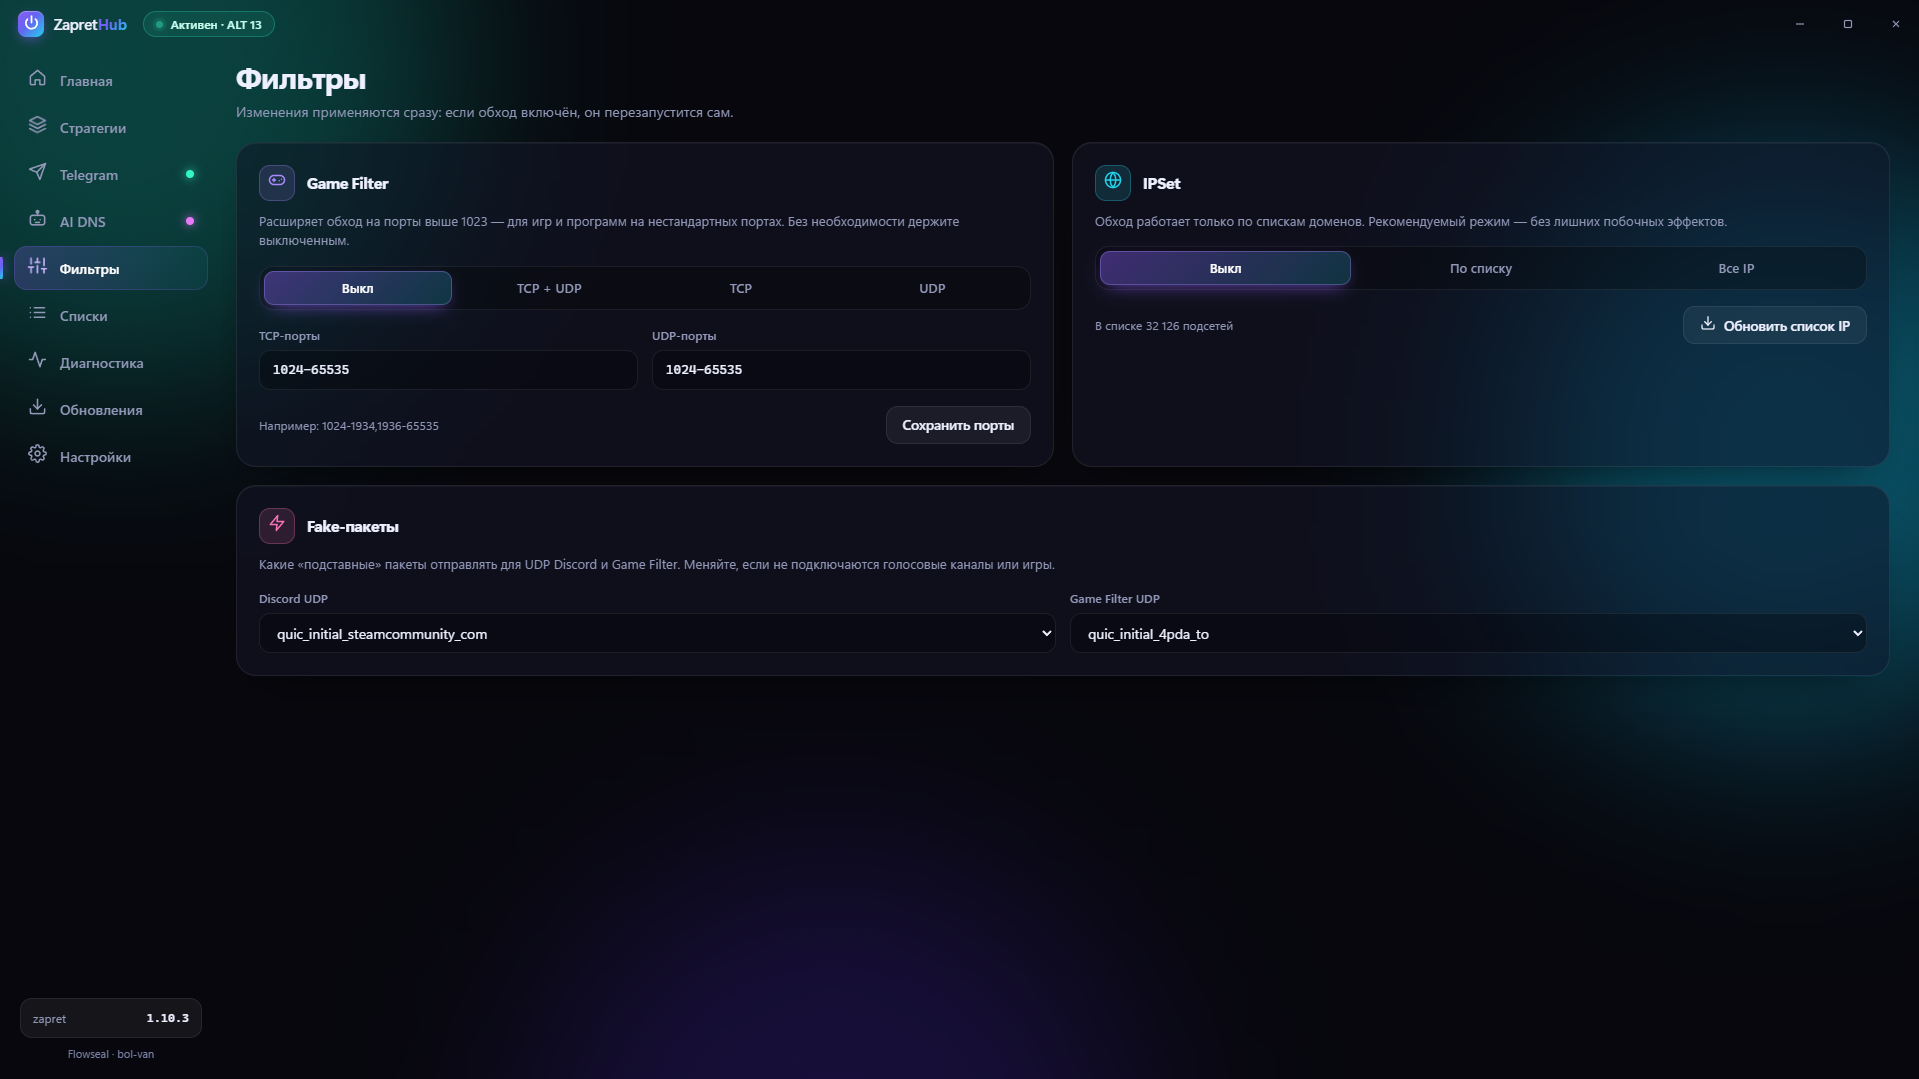
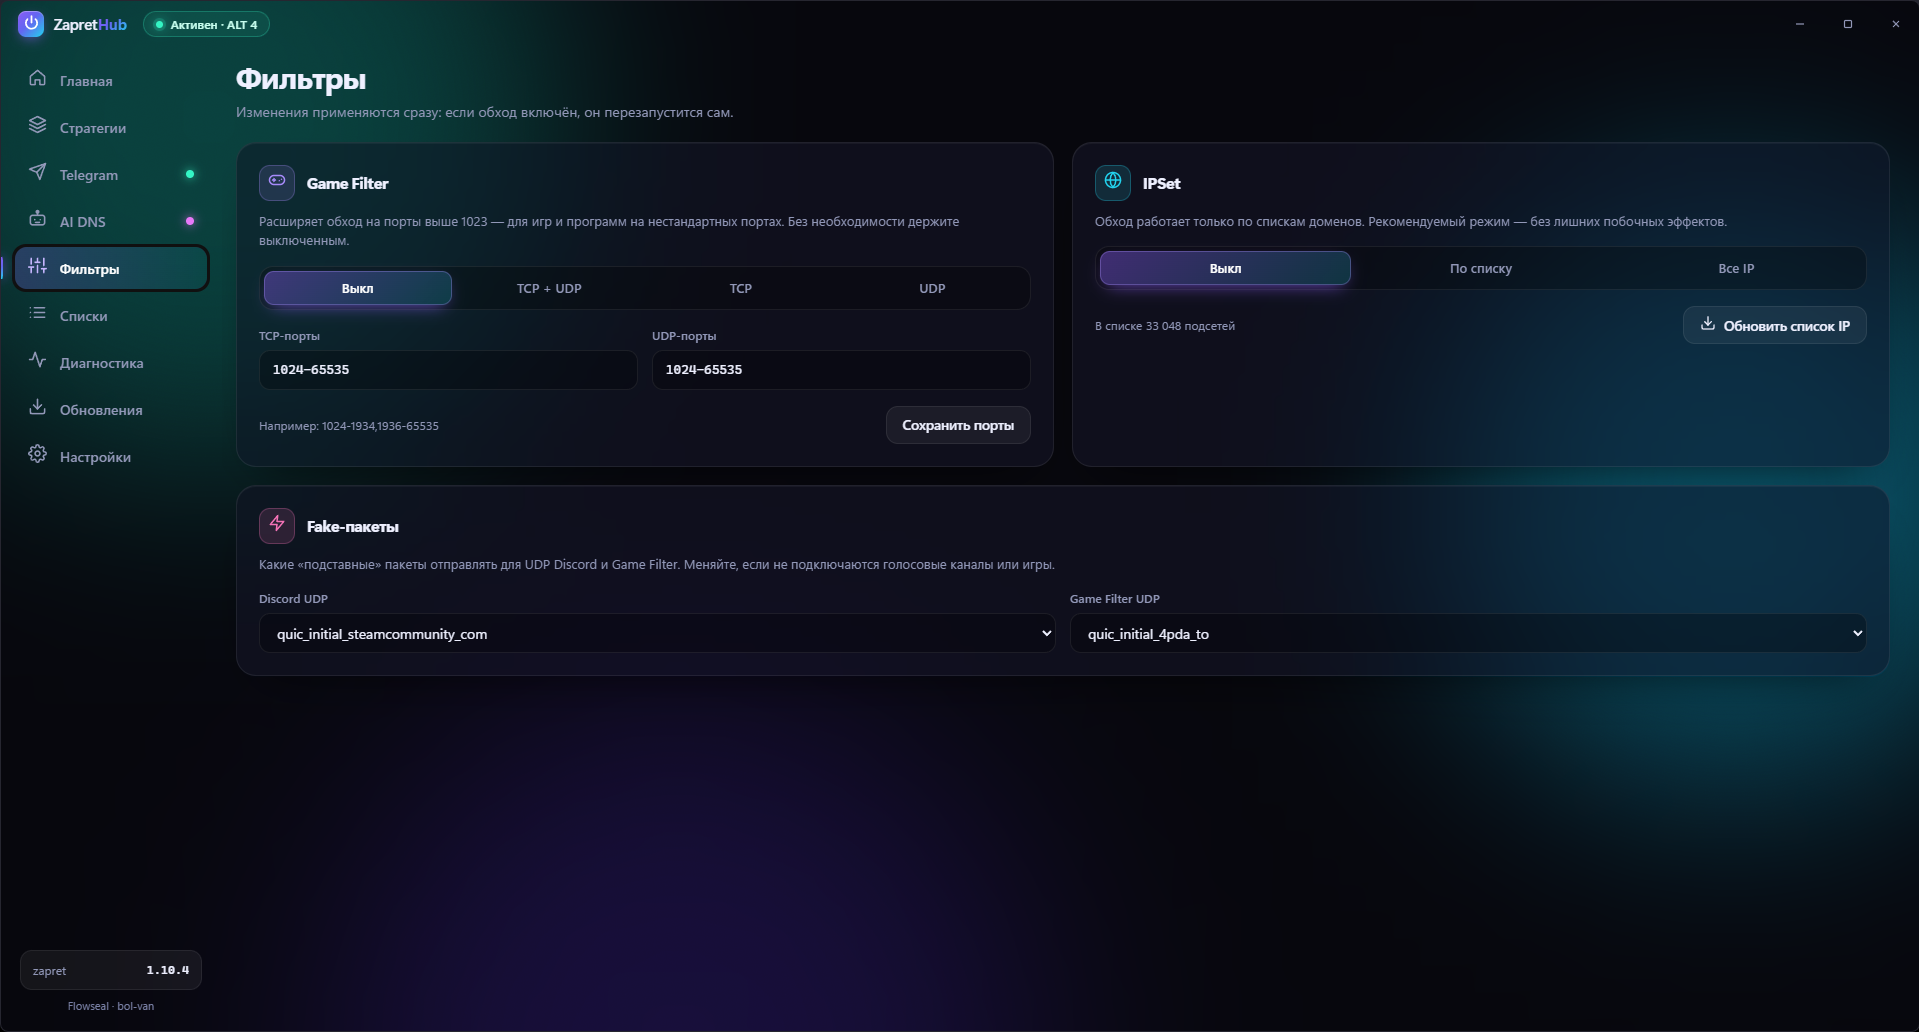
README: актуальные скриншоты 2.0.2 (секрет Telegram скрыт), убрано примечание о скриншотах 1.2.x

diff --git a/README.md b/README.md
@@ -19,10 +19,8 @@
 <br />
 
 <p align="center">
-  <img src="docs/images/main.png" alt="Главный экран Zapret Hub: кнопка обхода, проверка доступности Discord, YouTube, Google и Cloudflare, быстрые настройки" width="100%" />
+  <img src="docs/images/home.png" alt="Главная: кнопка обхода, доступность Discord, YouTube, Google и Cloudflare, быстрые настройки, версия zapret 1.10.4" width="100%" />
 </p>
-
-> Скриншоты в этом файле сделаны на версии 1.2.x. Интерфейс 2.0 сохранил это оформление, но отдельные экраны отличаются — например, «Обновления» и «Telegram» (в 2.0 Telegram-прокси встроен, обновления zapret идут напрямую с GitHub Flowseal). Новые скриншоты будут добавлены позже.
 
 ## Возможности
 
@@ -37,21 +35,23 @@
 
 ## Как это выглядит
 
-**Автоматический подбор стратегий**
+Скриншоты программы Zapret Hub 2.0.2 с zapret 1.10.4. Секрет и ссылка Telegram-прокси на скриншоте скрыты.
 
-<img src="docs/images/strategies.png" alt="Автоматический подбор стратегий: проверка Discord, YouTube, Google и Cloudflare, результаты по каждой стратегии" width="100%" />
+**Стратегии** — автоматический подбор и список всех стратегий с результатами проверок
+
+<img src="docs/images/strategies.png" alt="Стратегии: автоподбор Discord, YouTube, Google и Cloudflare, лучшая стратегия ALT 4, список из 22 стратегий с результатами" width="100%" />
 
 <table>
 <tr>
 <td width="50%" valign="top">
 <strong>Telegram</strong><br />
-Локальный прокси и настройки подключения. Секрет и ссылка на скриншоте скрыты.<br /><br />
-<img src="docs/images/telegram.png" alt="Раздел Telegram: состояние прокси, порт, DC → IP; секрет скрыт" width="100%" />
+Встроенный локальный прокси и настройки подключения.<br /><br />
+<img src="docs/images/telegram.png" alt="Telegram: прокси работает на 127.0.0.1:1443, встроенное ядро, порт, DC → IP; секрет и ссылка скрыты" width="100%" />
 </td>
 <td width="50%" valign="top">
 <strong>AI DNS</strong><br />
-Выбор DNS-серверов и возврат прежних настроек.<br /><br />
-<img src="docs/images/ai-dns.png" alt="Раздел AI DNS: предпочтительный и дополнительный DNS, DNS по протоколу HTTPS" width="100%" />
+Выбор DNS-серверов, DNS по HTTPS и сетевые адаптеры.<br /><br />
+<img src="docs/images/ai-dns.png" alt="AI DNS: предпочтительный и дополнительный DNS, DNS по протоколу HTTPS, выбор сетевых адаптеров" width="100%" />
 </td>
 </tr>
 </table>
@@ -63,26 +63,25 @@
 
 **Фильтры**
 
-<img src="docs/images/filters.png" alt="Фильтры: Game Filter, IPSet, fake-пакеты" width="100%" />
+<img src="docs/images/filters.png" alt="Фильтры: Game Filter, режимы IPSet, fake-пакеты для Discord UDP и Game Filter" width="100%" />
 
 **Свои списки и исключения**
 
-<img src="docs/images/lists.png" alt="Свои домены, исключения и исключённые IP" width="100%" />
+<img src="docs/images/lists.png" alt="Списки: свои домены, исключения и исключённые IP" width="100%" />
 
 **Диагностика**
 
-<img src="docs/images/diagnostics.png" alt="Диагностика: инструменты и журнал" width="100%" />
+<img src="docs/images/diagnostics.png" alt="Диагностика: проверка системы, инструменты и журнал" width="100%" />
 
-**Обновления** (версия 1.2.x; в 2.0 здесь только zapret, Telegram-прокси встроен)
+**Обновления**
 
-<img src="docs/images/updates.png" alt="Раздел обновлений версии 1.2.x" width="100%" />
+<img src="docs/images/updates.png" alt="Обновления: zapret 1.10.4 напрямую с GitHub Flowseal, встроенное ядро Telegram-прокси, автообновление и описание релиза" width="100%" />
 
 **Настройки**
 
-<img src="docs/images/settings.png" alt="Настройки: режим работы, поведение, сведения о программе" width="100%" />
+<img src="docs/images/settings.png" alt="Настройки: режим работы, запуск с Windows, трей, сведения о программе 2.0.2" width="100%" />
 
 </details>
-
 ## AI DNS: результаты тестирования
 
 Проверки проведены вручную на двух компьютерах с версией 1.2.0; результат зависит от сети и условий доступа к сервисам.
